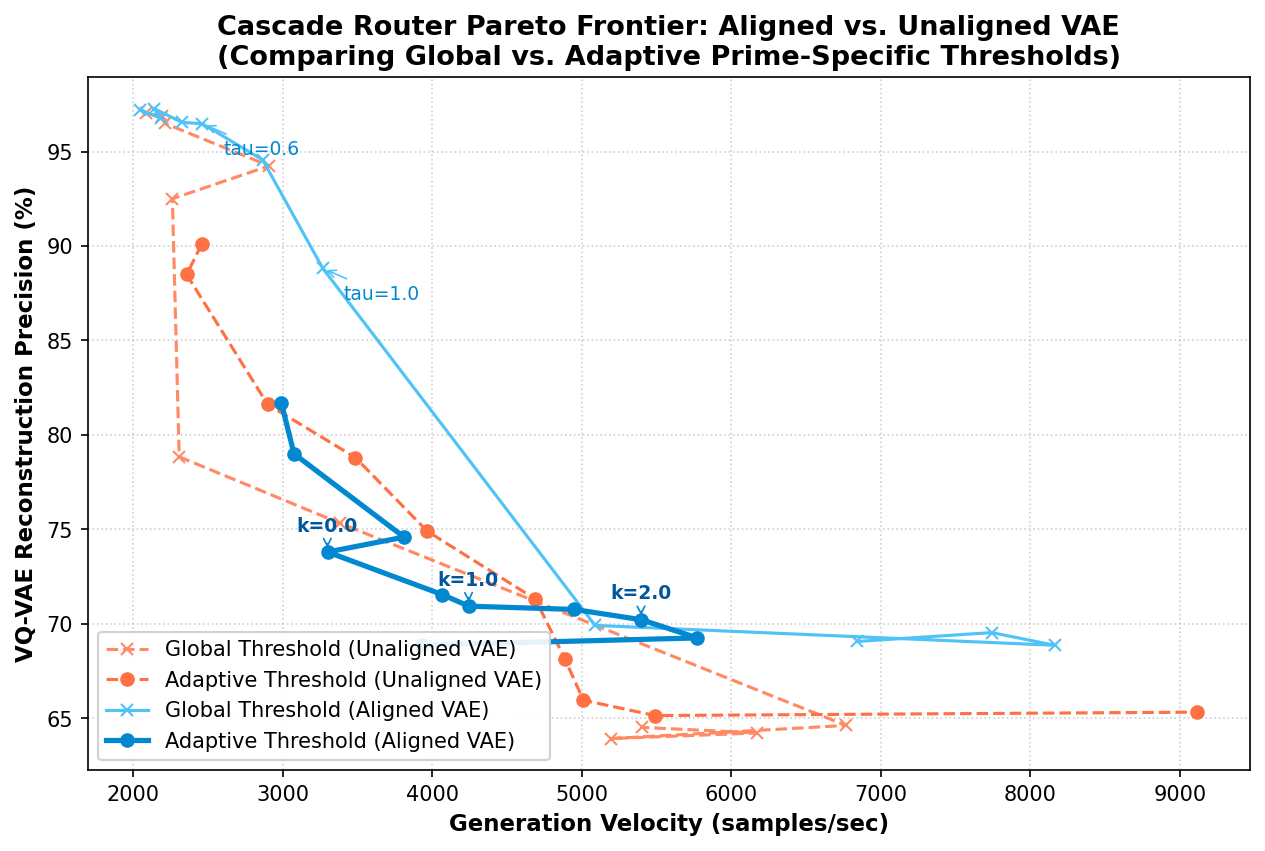
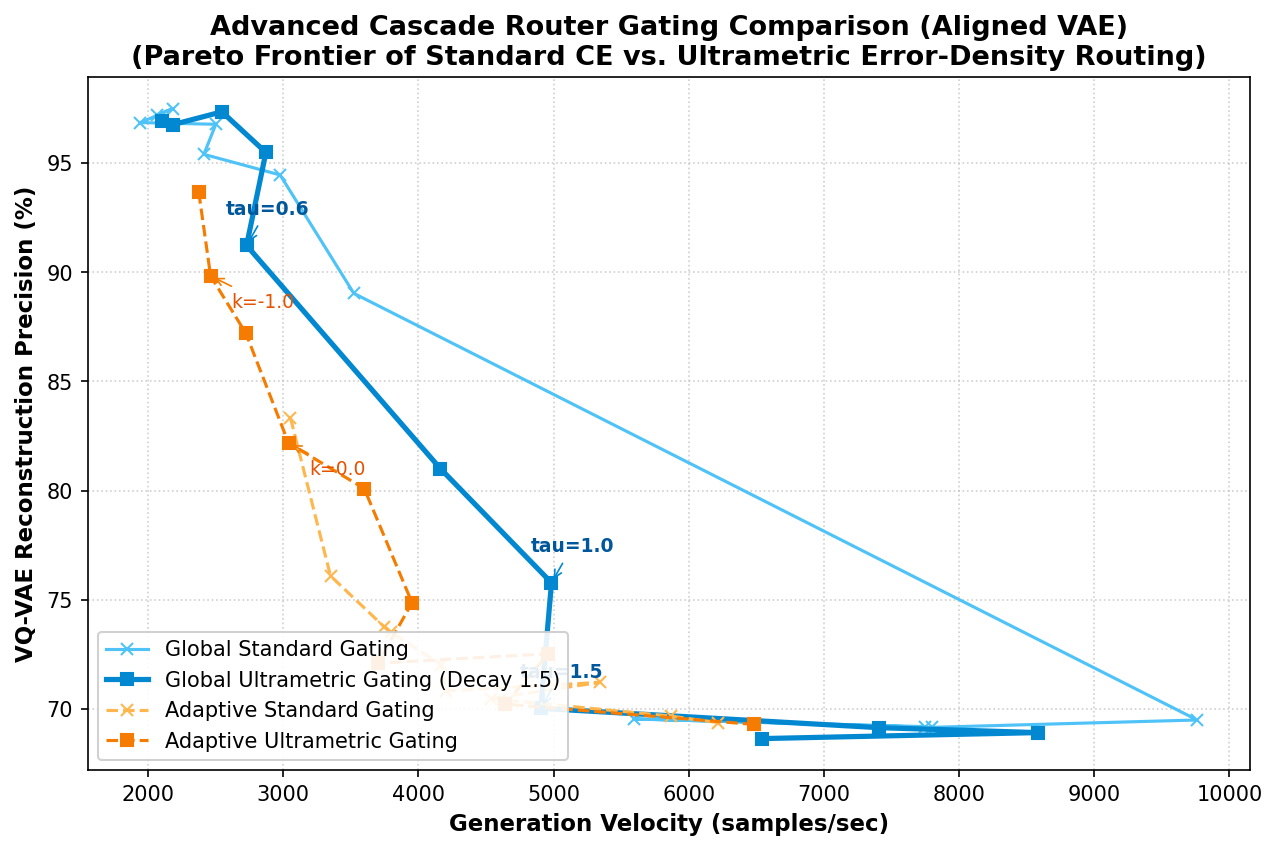
Implement Ultrametric Error-Density Routing and Threshold Calibration

diff --git a/evaluate_cascade.py b/evaluate_cascade.py
@@ -84,7 +84,7 @@ def train_beta_vae(model, train_loader, val_loader, epochs, lr, beta, device):
         
     return model
 
-def benchmark_cascade(router, test_primes, num_samples, device):
+def benchmark_cascade(router, test_primes, num_samples, device, weighted=False, alpha=1.5):
     """
     Evaluates different thresholds tau for CascadeRouter.
     Returns: list of thresholds, average velocity (samples/sec), precision (VQ-VAE recon accuracy), and routing rates.
@@ -103,11 +103,13 @@ def benchmark_cascade(router, test_primes, num_samples, device):
     p_tensor = torch.tensor(p_batch, dtype=torch.long, device=device)
     B = p_tensor.shape[0]
     
-    print(f"\n--- Benchmarking Cascade Router on {B} generations ---")
+    print(f"\n--- Benchmarking Cascade Router (weighted={weighted}) on {B} generations ---")
     
     for tau in thresholds:
         # Generate with Cascade
-        final_digits, routed_paths, beta_recon_err, elapsed = router.generate_cascade(p_tensor, threshold_tau=tau, device=device)
+        final_digits, routed_paths, beta_recon_err, elapsed = router.generate_cascade(
+            p_tensor, threshold_tau=tau, device=device, weighted=weighted, alpha=alpha
+        )
         
         # 1. Velocity (samples per second)
         velocity = B / elapsed
@@ -118,7 +120,6 @@ def benchmark_cascade(router, test_primes, num_samples, device):
         fast_rates.append(fast_rate)
         
         # 3. Precision (evaluated by VQ-VAE reconstruction accuracy of generated samples)
-        # Since VQ-VAE learned to map structured p-adics, if it reconstructs the generated samples well, they are high quality.
         with torch.no_grad():
             recon_logits, _, _ = router.vq_vae(final_digits, p_tensor)
             recon_digits = torch.argmax(recon_logits, dim=-1)
@@ -129,7 +130,7 @@ def benchmark_cascade(router, test_primes, num_samples, device):
         
     return thresholds, velocities, precisions, fast_rates
 
-def compute_adaptive_thresholds(beta_vae, val_loader, k=1.0, device='cpu'):
+def compute_adaptive_thresholds(beta_vae, val_loader, k=1.0, device='cpu', weighted=False, alpha=1.5):
     """
     Compute base-specific thresholds: tau_p = mu_p + k * sigma_p
     """
@@ -141,7 +142,7 @@ def compute_adaptive_thresholds(beta_vae, val_loader, k=1.0, device='cpu'):
             p = batch['p'].to(device)
             logits, _, _ = beta_vae(digits, p)
             recon_digits = torch.argmax(logits, dim=-1)
-            errs = get_reconstruction_error(beta_vae, recon_digits, p, is_vqvae=False)
+            errs = get_reconstruction_error(beta_vae, recon_digits, p, is_vqvae=False, weighted=weighted, alpha=alpha)
             for i in range(p.shape[0]):
                 prime = p[i].item()
                 if prime not in errors_by_prime:
@@ -156,11 +157,10 @@ def compute_adaptive_thresholds(beta_vae, val_loader, k=1.0, device='cpu'):
         thresholds_dict[prime] = float(mu + k * std)
     return thresholds_dict
 
-def benchmark_adaptive_cascade(router, val_loader, test_primes, num_samples, device):
+def benchmark_adaptive_cascade(router, val_loader, test_primes, num_samples, device, weighted=False, alpha=1.5):
     """
     Evaluates CascadeRouter using adaptive thresholds for different multipliers k.
     """
-    # k multipliers to evaluate: from negative (strict, fallback) to positive (permissive, fast)
     k_vals = [-1.5, -1.0, -0.5, 0.0, 0.5, 1.0, 1.5, 2.0, 3.0, 5.0]
     
     velocities = []
@@ -174,14 +174,18 @@ def benchmark_adaptive_cascade(router, val_loader, test_primes, num_samples, dev
     p_tensor = torch.tensor(p_batch, dtype=torch.long, device=device)
     B = p_tensor.shape[0]
     
-    print(f"\n--- Benchmarking Adaptive Cascade Router (k std dev) on {B} generations ---")
+    print(f"\n--- Benchmarking Adaptive Cascade Router (weighted={weighted}, k std dev) on {B} generations ---")
     
     for k in k_vals:
         # Compute adaptive thresholds for this k
-        thresholds_dict = compute_adaptive_thresholds(router.beta_vae, val_loader, k=k, device=device)
+        thresholds_dict = compute_adaptive_thresholds(
+            router.beta_vae, val_loader, k=k, device=device, weighted=weighted, alpha=alpha
+        )
         
         # Generate with Cascade
-        final_digits, routed_paths, beta_recon_err, elapsed = router.generate_cascade(p_tensor, threshold_tau=thresholds_dict, device=device)
+        final_digits, routed_paths, beta_recon_err, elapsed = router.generate_cascade(
+            p_tensor, threshold_tau=thresholds_dict, device=device, weighted=weighted, alpha=alpha
+        )
         
         # Velocity
         velocity = B / elapsed
@@ -201,6 +205,73 @@ def benchmark_adaptive_cascade(router, val_loader, test_primes, num_samples, dev
         print(f"Multiplier k: {k:5.1f} | Fast Path Rate: {fast_rate*100:5.1f}% | Velocity: {velocity:8.1f} smpl/s | VQ-VAE Recon Precision: {precision*100:6.2f}%")
         
     return k_vals, velocities, precisions, fast_rates
+
+def calibrate_threshold(router, val_loader, p_target, device='cpu', weighted=False, alpha=1.5):
+    """
+    Finds the optimal threshold tau that maximizes the fast-path routing rate
+    subject to the constraint that VQ-VAE precision >= p_target.
+    Evaluates on validation data.
+    """
+    router.beta_vae.eval()
+    router.vq_vae.eval()
+    router.prior.eval()
+    
+    # 1. Collect all validation samples
+    all_digits = []
+    all_primes = []
+    for batch in val_loader:
+        all_digits.append(batch['digits'])
+        all_primes.append(batch['p'])
+    all_digits = torch.cat(all_digits, dim=0).to(device)
+    all_primes = torch.cat(all_primes, dim=0).to(device)
+    
+    B = all_digits.shape[0]
+    
+    # 2. Get Beta-VAE reconstructions and self-reconstruction errors
+    with torch.no_grad():
+        logits_beta, _, _ = router.beta_vae(all_digits, all_primes)
+        x_beta = torch.argmax(logits_beta, dim=-1)
+        errs = get_reconstruction_error(router.beta_vae, x_beta, all_primes, weighted=weighted, alpha=alpha)
+        
+    # 3. Sort errors to define candidate thresholds
+    sorted_errs = sorted(list(errs.cpu().numpy()))
+    step = max(1, len(sorted_errs) // 50)
+    candidate_thresholds = [0.0] + [float(sorted_errs[i]) for i in range(0, len(sorted_errs), step)] + [sorted_errs[-1] + 0.1]
+    
+    # 4. Search for the maximum threshold that satisfies the constraint
+    best_tau = 0.0
+    best_rate = 0.0
+    actual_precision = 1.0
+    
+    print(f"\nCalibrating threshold for target precision {p_target*100:.1f}% (weighted={weighted})...")
+    for tau in candidate_thresholds:
+        fast_mask = errs < tau
+        fallback_indices = (~fast_mask).nonzero(as_tuple=True)[0]
+        num_fallback = fallback_indices.shape[0]
+        
+        final_digits = x_beta.clone()
+        if num_fallback > 0:
+            p_fallback = all_primes[fallback_indices]
+            with torch.no_grad():
+                logits_vq, _, _ = router.vq_vae(all_digits[fallback_indices], p_fallback)
+                x_vq = torch.argmax(logits_vq, dim=-1)
+            final_digits[fallback_indices] = x_vq
+            
+        with torch.no_grad():
+            recon_logits, _, _ = router.vq_vae(final_digits, all_primes)
+            recon_digits = torch.argmax(recon_logits, dim=-1)
+            precision = (recon_digits == final_digits).float().mean().item()
+            
+        rate = (B - num_fallback) / B
+        if precision >= p_target:
+            best_tau = tau
+            best_rate = rate
+            actual_precision = precision
+        else:
+            break
+            
+    print(f"  Calibrated: tau = {best_tau:.4f} | Est. Routing Rate = {best_rate*100:.1f}% | Est. Precision = {actual_precision*100:.2f}%")
+    return best_tau
 
 def main():
     parser = argparse.ArgumentParser()
@@ -300,74 +371,92 @@ def main():
     plt.close()
     print(f"Saved reconstruction error distribution plot to {error_plot_path}")
     
-    # 6. Benchmark Cascade Routers
-    print("\nBenchmarking Unaligned Cascade (Global Threshold)...")
-    thresholds, vels_un, precs_un, rates_un = benchmark_cascade(router_unaligned, args.primes, num_samples=200, device=device)
-    
-    print("\nBenchmarking Unaligned Cascade (Adaptive Threshold)...")
-    k_vals, vels_adap_un, precs_adap_un, rates_adap_un = benchmark_adaptive_cascade(
-        router_unaligned, val_loader_full, args.primes, num_samples=200, device=device
-    )
-    
-    vels_al, precs_al = None, None
-    vels_adap_al, precs_adap_al = None, None
+    # 6. Run Constraint-Based Calibration
     if router_aligned is not None:
-        print("\nBenchmarking Aligned Cascade (Global Threshold)...")
-        _, vels_al, precs_al, rates_al = benchmark_cascade(router_aligned, args.primes, num_samples=200, device=device)
+        print("\n=======================================================")
+        print("         THRESHOLD CALIBRATION ON VALIDATION DATA      ")
+        print("=======================================================")
+        calibrate_threshold(router_aligned, val_loader_full, p_target=0.98, device=device, weighted=False)
+        calibrate_threshold(router_aligned, val_loader_full, p_target=0.95, device=device, weighted=False)
+        calibrate_threshold(router_aligned, val_loader_full, p_target=0.90, device=device, weighted=False)
         
-        print("\nBenchmarking Aligned Cascade (Adaptive Threshold)...")
-        _, vels_adap_al, precs_adap_al, rates_adap_al = benchmark_adaptive_cascade(
-            router_aligned, val_loader_full, args.primes, num_samples=200, device=device
+        calibrate_threshold(router_aligned, val_loader_full, p_target=0.98, device=device, weighted=True, alpha=1.5)
+        calibrate_threshold(router_aligned, val_loader_full, p_target=0.95, device=device, weighted=True, alpha=1.5)
+        calibrate_threshold(router_aligned, val_loader_full, p_target=0.90, device=device, weighted=True, alpha=1.5)
+        print("=======================================================\n")
+        
+    # 7. Benchmark Aligned Cascade Router under different gating methods
+    if router_aligned is not None:
+        # A. Global Standard
+        print("\nBenchmarking Aligned Cascade (Global Standard)...")
+        thresholds, vels_g_std, precs_g_std, _ = benchmark_cascade(
+            router_aligned, args.primes, num_samples=200, device=device, weighted=False
         )
         
-    # Plot Cascade Trade-off Curves Comparison (Pareto Frontier Style: Precision vs Velocity)
-    plt.figure(figsize=(10, 6), dpi=150)
-    
-    # Unaligned VAE curves
-    plt.plot(vels_un, [p * 100 for p in precs_un], marker='x', linestyle='--', color='#ff8a65', label='Global Threshold (Unaligned VAE)')
-    plt.plot(vels_adap_un, [p * 100 for p in precs_adap_un], marker='o', linestyle='--', color='#ff7043', label='Adaptive Threshold (Unaligned VAE)')
-    
-    # Aligned VAE curves
-    if router_aligned is not None:
-        plt.plot(vels_al, [p * 100 for p in precs_al], marker='x', color='#4fc3f7', label='Global Threshold (Aligned VAE)')
-        plt.plot(vels_adap_al, [p * 100 for p in precs_adap_al], marker='o', color='#0288d1', linewidth=2.5, label='Adaptive Threshold (Aligned VAE)')
+        # B. Global Ultrametric-Weighted
+        print("\nBenchmarking Aligned Cascade (Global Ultrametric-Weighted)...")
+        _, vels_g_w, precs_g_w, _ = benchmark_cascade(
+            router_aligned, args.primes, num_samples=200, device=device, weighted=True, alpha=1.5
+        )
         
-        # Annotate a few points on Aligned Adaptive curve
-        # Choose k = 0.0, 1.0, 2.0
-        for target_k, label in [(0.0, 'k=0.0'), (1.0, 'k=1.0'), (2.0, 'k=2.0')]:
-            if target_k in k_vals:
-                idx = k_vals.index(target_k)
-                x = vels_adap_al[idx]
-                y = precs_adap_al[idx] * 100
+        # C. Adaptive Standard
+        print("\nBenchmarking Aligned Cascade (Adaptive Standard)...")
+        k_vals, vels_a_std, precs_a_std, _ = benchmark_adaptive_cascade(
+            router_aligned, val_loader_full, args.primes, num_samples=200, device=device, weighted=False
+        )
+        
+        # D. Adaptive Ultrametric-Weighted
+        print("\nBenchmarking Aligned Cascade (Adaptive Ultrametric-Weighted)...")
+        _, vels_a_w, precs_a_w, _ = benchmark_adaptive_cascade(
+            router_aligned, val_loader_full, args.primes, num_samples=200, device=device, weighted=True, alpha=1.5
+        )
+        
+        # Plot Cascade Trade-off Curves Comparison (Pareto Frontier Style: Precision vs Velocity)
+        plt.figure(figsize=(10, 6), dpi=150)
+        
+        # Plot curves
+        plt.plot(vels_g_std, [p * 100 for p in precs_g_std], marker='x', linestyle='-', color='#4fc3f7', label='Global Standard Gating')
+        plt.plot(vels_g_w, [p * 100 for p in precs_g_w], marker='s', linestyle='-', color='#0288d1', linewidth=2.5, label='Global Ultrametric Gating (Decay 1.5)')
+        plt.plot(vels_a_std, [p * 100 for p in precs_a_std], marker='x', linestyle='--', color='#ffb74d', label='Adaptive Standard Gating')
+        plt.plot(vels_a_w, [p * 100 for p in precs_a_w], marker='s', linestyle='--', color='#f57c00', label='Adaptive Ultrametric Gating')
+        
+        # Annotate selected points on the Global Ultrametric curve
+        for target_tau, label in [(0.6, 'tau=0.6'), (1.0, 'tau=1.0'), (1.5, 'tau=1.5')]:
+            if target_tau in thresholds:
+                idx = thresholds.index(target_tau)
+                x = vels_g_w[idx]
+                y = precs_g_w[idx] * 100
                 plt.annotate(
-                    label, (x, y), textcoords="offset points", xytext=(-15, 10),
+                    label, (x, y), textcoords="offset points", xytext=(-10, 15),
                     arrowprops=dict(arrowstyle="->", color='#0288d1', lw=0.8),
                     fontsize=9, fontweight='bold', color='#01579b'
                 )
                 
-        # Annotate points on Aligned Global curve
-        for target_tau, label in [(0.6, 'tau=0.6'), (1.0, 'tau=1.0')]:
-            if target_tau in thresholds:
-                idx = thresholds.index(target_tau)
-                x = vels_al[idx]
-                y = precs_al[idx] * 100
+        # Annotate selected points on the Adaptive Ultrametric curve
+        for target_k, label in [(-1.0, 'k=-1.0'), (0.0, 'k=0.0')]:
+            if target_k in k_vals:
+                idx = k_vals.index(target_k)
+                x = vels_a_w[idx]
+                y = precs_a_w[idx] * 100
                 plt.annotate(
                     label, (x, y), textcoords="offset points", xytext=(10, -15),
-                    arrowprops=dict(arrowstyle="->", color='#4fc3f7', lw=0.8),
-                    fontsize=9, color='#0288d1'
+                    arrowprops=dict(arrowstyle="->", color='#f57c00', lw=0.8),
+                    fontsize=9, color='#e65100'
                 )
                 
-    plt.xlabel('Generation Velocity (samples/sec)', fontsize=11, fontweight='bold')
-    plt.ylabel('VQ-VAE Reconstruction Precision (%)', fontsize=11, fontweight='bold')
-    plt.title('Cascade Router Pareto Frontier: Aligned vs. Unaligned VAE\n(Comparing Global vs. Adaptive Prime-Specific Thresholds)', fontsize=13, fontweight='bold')
-    plt.grid(True, linestyle=':', alpha=0.6)
-    plt.legend(loc='lower left', framealpha=0.9)
-    
-    # Tight layout and save
-    comparison_plot_path = './plots/cascade_tradeoff_comparison.png'
-    plt.savefig(comparison_plot_path, bbox_inches='tight')
-    plt.close()
-    print(f"Saved cascade comparison plot to {comparison_plot_path}")
+        plt.xlabel('Generation Velocity (samples/sec)', fontsize=11, fontweight='bold')
+        plt.ylabel('VQ-VAE Reconstruction Precision (%)', fontsize=11, fontweight='bold')
+        plt.title('Advanced Cascade Router Gating Comparison (Aligned VAE)\n(Pareto Frontier of Standard CE vs. Ultrametric Error-Density Routing)', fontsize=13, fontweight='bold')
+        plt.grid(True, linestyle=':', alpha=0.6)
+        plt.legend(loc='lower left', framealpha=0.9)
+        
+        # Save plot
+        comparison_plot_path = './plots/cascade_tradeoff_comparison.png'
+        plt.savefig(comparison_plot_path, bbox_inches='tight')
+        plt.close()
+        print(f"Saved cascade comparison plot to {comparison_plot_path}")
+    else:
+        print("Warning: Aligned Cascade Router not available, skipping gating comparisons.")
 
 if __name__ == "__main__":
     main()

diff --git a/anomaly_detector.py b/anomaly_detector.py
@@ -3,27 +3,38 @@ import torch
 import torch.nn as nn
 import torch.nn.functional as F
 
-def get_reconstruction_error(model, digits, p, is_vqvae=False):
+def get_reconstruction_error(model, digits, p, is_vqvae=False, weighted=False, alpha=1.5):
     """
     Computes the average reconstruction cross-entropy loss per sequence.
+    If weighted is True, applies an exponentially decaying weight along the sequence indices.
     digits: [B, N] tensor
     p: [B] tensor
     """
     model.eval()
     with torch.no_grad():
-        if is_vqvae:
-            logits, _, _ = model(digits, p)
-        else:
-            logits, _, _ = model(digits, p)
+        logits, _, _ = model(digits, p)
             
         B, N, C = logits.shape
         criterion = nn.CrossEntropyLoss(reduction='none')
         
         # Flatten to compute Cross Entropy
         loss_flat = criterion(logits.reshape(-1, C), digits.reshape(-1))
-        # Reshape back to [B, N] and take the mean along the sequence dimension N
-        loss_per_sample = loss_flat.reshape(B, N).mean(dim=-1)
+        loss_per_token = loss_flat.reshape(B, N)
         
+        if weighted:
+            exponents = torch.arange(N, dtype=torch.float, device=digits.device).view(1, N)
+            if alpha == 'p':
+                decay_base = p.view(B, 1).float()
+            else:
+                decay_base = torch.tensor(alpha, device=digits.device).view(1, 1)
+            
+            weights = decay_base ** (-exponents) # [B, N]
+            # Normalize each sample's weights to sum to N (so scale is comparable to flat mean)
+            weights_norm = weights / weights.mean(dim=-1, keepdim=True)
+            loss_per_sample = (loss_per_token * weights_norm).mean(dim=-1)
+        else:
+            loss_per_sample = loss_per_token.mean(dim=-1)
+            
     return loss_per_sample
 
 class CascadeRouter:
@@ -32,7 +43,7 @@ class CascadeRouter:
         self.vq_vae = vq_vae
         self.prior = prior
         
-    def generate_cascade(self, p, threshold_tau, device='cpu'):
+    def generate_cascade(self, p, threshold_tau, device='cpu', weighted=False, alpha=1.5):
         """
         Generates p-adic numbers using a cascade of Beta-VAE and VQ-VAE.
         If Beta-VAE's self-reconstruction error is below threshold_tau, it uses the Beta-VAE (fast).
@@ -51,7 +62,9 @@ class CascadeRouter:
         x_beta = self.beta_vae.sample(p, device=device) # [B, N]
         
         # 2. Anomaly Detection: compute Beta-VAE self-reconstruction error
-        beta_recon_err = get_reconstruction_error(self.beta_vae, x_beta, p, is_vqvae=False) # [B]
+        beta_recon_err = get_reconstruction_error(
+            self.beta_vae, x_beta, p, is_vqvae=False, weighted=weighted, alpha=alpha
+        ) # [B]
         
         # Determine routing masks (global threshold or dictionary of base-specific thresholds)
         if isinstance(threshold_tau, dict):